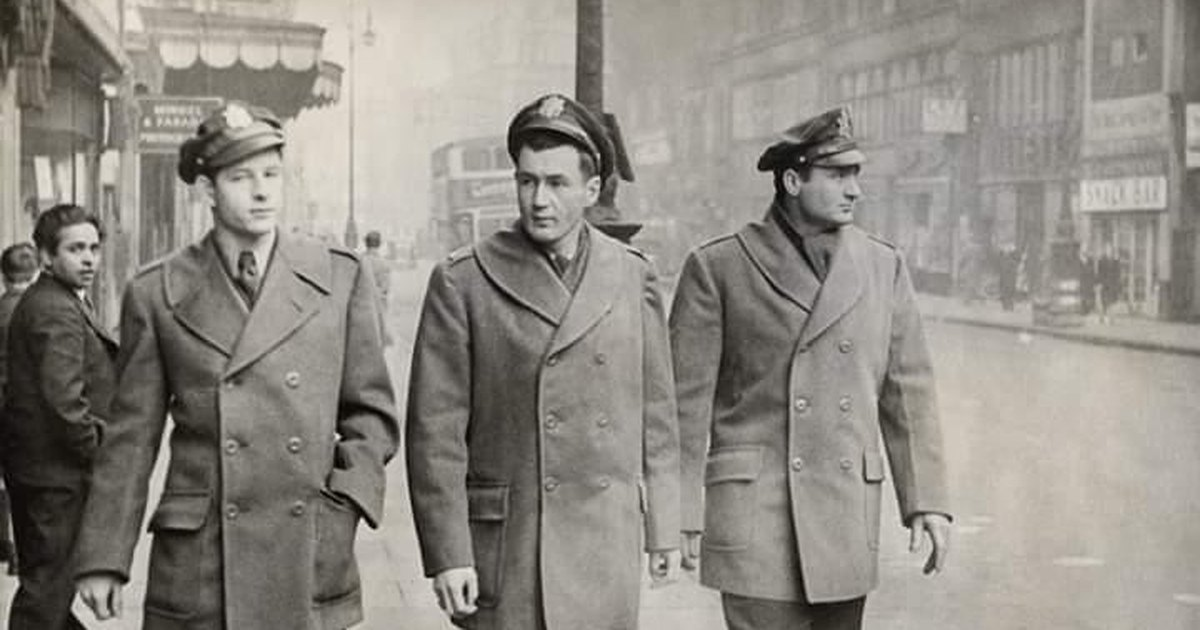
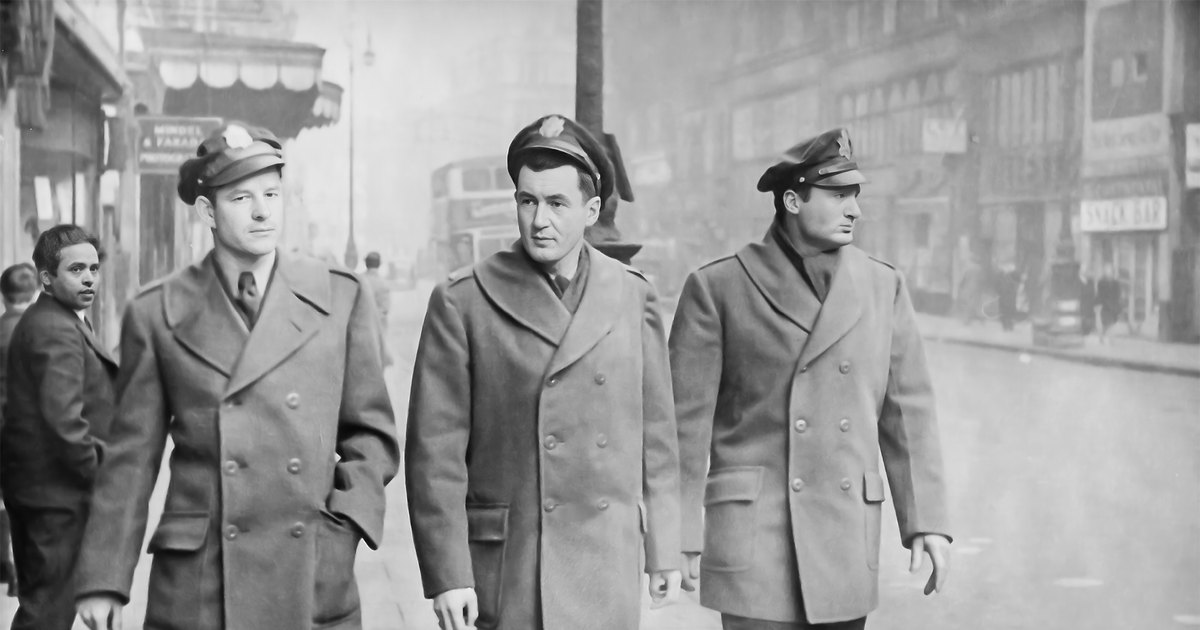
Add four plates and name the men on Oxford Street
The early CAA card, the studio portrait, the cadet with the instructor
on the porch, and Frank and Joyce in 1958 go into the book. The London
pass is the restored print: Frank at left, Barnes in the middle, Probst
at right. The Horham crew sitting is the Kodachrome.

diff --git a/src/data/chapters.ts b/src/data/chapters.ts
@@ -100,6 +100,7 @@ export const chapters: Chapter[] = [
           { type: "p", id: "2.1-p17", text: "The building on the plan is 60 by 70 feet. The Gazette, quoting Sam Calicura Jr. in February 1941, gave the hangar as 65 by 75. The plan is undated, and the difference may be nothing more than the gap between a figure quoted to a reporter and a figure measured afterward, but the two are not the same and this book does not reconcile them." },
           { type: "p", id: "2.1-p18", text: "Sam Calicura Jr. was the field’s co-founder and its vice president. He taught his two younger brothers to fly there. A group plate from the strip shows him fourth from the left, in a suit, no cap. The other men are not named here." },
           { type: "p", id: "2.1-p19", text: "That last sentence is the one to read slowly. Frank Calicura did not go looking for aviation, did not answer a recruiting poster, and did not have a moment of vocation that anyone recorded. His older brother rebuilt an airfield four blocks from the family’s front door and taught him, and taught Dominic, on that strip of fill between the refinery and the water." },
+          { type: "figure", id: "airmanid" },
           { type: "p", id: "2.1-p20", text: "Both of them enlisted as Aviation Cadets in June 1942." },
           { type: "p", id: "2.1-p21", text: "The short snorter dollar bill in the family’s collection carries the signatures of men and women connected to that airport. Charles Beatie’s name is on it." },
           { type: "figure", id: "snorter" },
@@ -254,6 +255,7 @@ export const chapters: Chapter[] = [
           { type: "p", id: "4.3-p3", text: "The course ran roughly nine or ten weeks and about sixty hours, split between dual instruction and solo flying. A cadet’s first solo — the moment an instructor climbed out of the rear cockpit and did not climb back in — was by every surviving account from the period the single most remembered event of primary training, more so than graduation itself." },
           { type: "p", id: "4.3-p4", text: "The certificate marking Frank’s is a cartoon. Woody Woodpecker, not an eagle or a colonel’s signature. The Army let the occasion be what it was: one afternoon, one young man alone in an airplane for the first time, and paperwork that did not pretend to more gravity than the moment actually carried." },
           { type: "figure", id: "woodpecker" },
+          { type: "figure", id: "cadet" },
           { type: "p", id: "4.3-p5", text: "If the aircraft under Ellis Ort’s instruction was a Stearman, as the regional pattern makes likely, it was the same type — a Boeing product, the same basic biplane lineage — that Frank had already flown as a civilian at his brother’s field in Martinez. The Army’s airplane and his brother’s airplane would have differed mainly in paint." },
         ],
       },
@@ -302,6 +304,7 @@ export const chapters: Chapter[] = [
           { type: "p", id: "4.6-p4", text: "Read together, the two documents settle what earlier research had only inferred: commission and instrument qualification landed on the same day, certified from two different headquarters — Turner Field signing off the flying, Maxwell Field signing off the rank. Gold bars and instrument rating arrived in the same week’s mail, the way the advanced twin-engine pipeline was built to work." },
           { type: "p", id: "4.6-p5", text: "The Gazette put it in a paragraph headed Martinez Boy Now Lieut. in Air Corps. Aviation Cadet Frank James Calicura, son of Mr. and Mrs. Sam Calicura, Sr., 515 Mellius street — the paper’s spelling — commissioned a second lieutenant at Turner Field, Albany, Georgia, Colonel John B. Patrick announcing it that day. Patrick is the same name on the instrument certificate. The paper uses the parents’ house, and misspells the street. Frank had lived at 731 since 1938." },
           { type: "figure", id: "commissionclip" },
+          { type: "figure", id: "portrait" },
           { type: "p", id: "4.6-p6", text: "A third document, dated to the same graduation week, rates him for the aeronautical designation itself rather than the commission or the instrument qualification. Personnel Orders Number 15, Headquarters Army Air Forces Eastern Flying Training Command, Maxwell Field, Alabama, 7 April 1944, lists the entire graduating roster of Class 44-D — dozens of names, alphabetically, Calicura's among them — as rated Pilot effective 15 April 1944, Turner Field, Albany, Georgia, under Army Air Forces Regulation 50-7 (family collection). Three separate documents converge on the same date: instrument qualification, officer’s commission, and pilot rating, each issued by a different office, each landing on 15 April 1944." },
           { type: "p", id: "4.6-p7", text: "A fourth item survives from the same week, and it belongs to a different category. Where the commission, the instrument certificate, and the pilot rating are administrative — records the Army kept because it had to — this one is a keepsake. A formal graduation announcement from the Army Air Forces Eastern Flying Training Command announces the graduation of Class 44-D, Turner Field, Albany, Georgia, on Saturday, April 15, 1944, personalized on its inside flap: Frank J. Calicura, Lieutenant, Air Forces, Army of the United States (family collection). Nothing about it was required. It was kept because a graduation is the kind of thing a family wants a card for, even one issued by the Army." },
           { type: "p", id: "4.6-p8", text: "One more object survives from Turner Field, and it is the only thing in this stretch of the record made to be worn. It is a ring: a dark stone in an oval bezel, the lettering around the bezel worn most of the way down to illegible, and on the shoulder an eagle with its wings spread over a shield. Beneath the shield is a banner with one word on it. PILOT." },
@@ -1137,6 +1140,7 @@ export const chapters: Chapter[] = [
         blocks: [
           { type: "p", id: "15.5-p0", text: "Every other connection this book has drawn between the Calicura family and Sabato Rodia runs one way — Rodia coming north, into Martinez, into the family’s own shop and street. One photograph in the collection runs the other direction." },
           { type: "figure", id: "watts" },
+          { type: "figure", id: "joyce1958" },
           { type: "p", id: "15.5-p1", text: "It shows Frank Calicura and his son Samuel standing on the sidewalk outside the Watts Towers themselves, the mosaic walls and looping tower framework filling the frame behind them. Frank stands with his arms folded; Samuel, younger, stands the same way beside him. The family places the stop during a trip south to Disneyland. Samuel, born in 1952, would have been about six that year — consistent with 1958, the working date used here, a year ahead of both the Ernest visit and the VA’s decision on Frank’s claim, though nothing fixes the trip’s date itself independently of family memory; only Samuel’s birth year is separately confirmed." },
           { type: "p", id: "15.5-p2", text: "The towers were a detour on the way to or from a vacation remembered for something else entirely. Nothing in the record says what Frank told his son standing there, or whether he told him anything at all." },
         ],

diff --git a/src/data/photos.ts b/src/data/photos.ts
@@ -45,11 +45,11 @@ export const photos: Record<PhotoId, ArchivePhoto> = {
     title: "The crew of 44-6838",
     date: "1945",
     src: "/images/archive/crew",
-    width: 1500,
-    height: 1189,
-    alt: "Nine airmen posed in two rows under the nose of a B-17 painted Spirit of Martinez",
+    width: 1800,
+    height: 1250,
+    alt: "Nine airmen posed in two rows under the nose of a B-17 painted Spirit of Martinez, Kodachrome, 1945",
     caption:
-      "The crew of 44-6838, Spirit of Martinez, on the hardstand at Horham, 1945. The name is already on the nose — this is the ship after the Army caught up to what the men had decided to call her.",
+      "The crew of 44-6838, Spirit of Martinez, on the hardstand at Horham, 1945. Kodachrome. The name is already on the nose — this is the ship after the Army caught up to what the men had decided to call her.",
     credit: "Family collection",
     kind: "photograph",
     place: {
@@ -134,11 +134,11 @@ export const photos: Record<PhotoId, ArchivePhoto> = {
     title: "Oxford Street",
     date: "1945",
     src: "/images/archive/london",
-    width: 720,
-    height: 447,
-    alt: "Three American officers in greatcoats walking Oxford Street, the Mindel & Faraday shopfront behind them",
+    width: 1800,
+    height: 1119,
+    alt: "Three American officers in greatcoats walking Oxford Street: Frank Calicura at left, John R. Barnes in the middle, Victor G. Probst at right, the Mindel & Faraday shopfront behind them",
     caption:
-      "Oxford Street. The shopfront behind them reads Mindel & Faraday, the photographers at 34–36. A London pass. The mission reports document targets, tonnage, losses, and times. They document nothing about this pavement.",
+      "Oxford Street. Frank Calicura at left, John R. Barnes in the middle, Victor G. Probst at right. The shopfront behind them reads Mindel & Faraday, the photographers at 34–36. A London pass. The mission reports document targets, tonnage, losses, and times. They document nothing about this pavement.",
     credit: "Family collection",
     kind: "photograph",
     place: {
@@ -147,7 +147,7 @@ export const photos: Record<PhotoId, ArchivePhoto> = {
       precision: "address",
       lat: 51.51522,
       lng: -0.14189,
-      line: "The shopfront reads Mindel & Faraday, the photographers at 34–36. A London pass. The mission reports document nothing about this pavement.",
+      line: "Frank Calicura, John R. Barnes, Victor G. Probst. The shopfront reads Mindel & Faraday, 34–36. A London pass.",
     },
   },
   watts: {
@@ -170,6 +170,20 @@ export const photos: Record<PhotoId, ArchivePhoto> = {
       lng: -118.24103,
       line: "Frank Calicura and his son Samuel outside the Watts Towers, about 1958.",
     },
+  },
+  joyce1958: {
+    id: "joyce1958",
+    title: "Frank and Joyce, 1958",
+    date: "1958",
+    src: "/images/archive/joyce1958",
+    width: 1181,
+    height: 1528,
+    alt: "Frank and Joyce Calicura sitting together on a grey sofa, he in a dark suit, she in a blue floral dress, 1958",
+    caption:
+      "1958. Frank and Joyce Calicura. Color. The same year as the stop at Watts.",
+    credit: "Family collection",
+    kind: "photograph",
+    ogImage: "/images/archive/og/joyce1958.jpg",
   },
   gazette: {
     id: "gazette",
@@ -790,6 +804,27 @@ export const photos: Record<PhotoId, ArchivePhoto> = {
     kind: "photograph",
     maxWidth: "xl",
   },
+  airmanid: {
+    id: "airmanid",
+    title: "Airman identification",
+    src: "/images/archive/airmanid",
+    width: 1800,
+    height: 969,
+    alt: "Department of Commerce Civil Aeronautics Administration Form ACA 935 identifying Frank James Calicura of Martinez, with portrait, signature, and right-hand fingerprints",
+    caption:
+      "Form ACA 935. Civil Aeronautics Administration. Frank James Calicura, Martinez, California. Born 4 April 1921. Brown, brown. 146¼ lbs. 5 ft. 9½ in. Certified as an airman. The Army card comes later, and the weight has changed.",
+    credit: "Family collection",
+    kind: "object",
+    maxWidth: "xl",
+    place: {
+      label: "Martinez, California",
+      layer: "hometown",
+      precision: "city",
+      lat: 38.0194,
+      lng: -122.1341,
+      line: "Form ACA 935. Certified as an airman. The Army card comes later.",
+    },
+  },
   stuart: {
     id: "stuart",
     title: "Stuart’s memorandum",
@@ -884,6 +919,20 @@ export const photos: Record<PhotoId, ArchivePhoto> = {
       "Avon Park. Frank Calicura, left-hand seat. Cropped from a cockpit plate with Victor Probst in the other. Garrison cap, leather, the panel between them.",
     credit: "Family collection",
     kind: "photograph",
+  },
+  portrait: {
+    id: "portrait",
+    title: "Lieutenant Calicura",
+    date: "1944",
+    src: "/images/archive/portrait",
+    width: 1288,
+    height: 1800,
+    alt: "Studio portrait of Second Lieutenant Frank J. Calicura in Army Air Forces service dress, pilot wings and a winged-star patch on the shoulder",
+    caption:
+      "Studio portrait. Pilot wings, gold bars, the Air Forces patch. The print does not date itself. The bars are a second lieutenant’s.",
+    credit: "Family collection",
+    kind: "photograph",
+    ogImage: "/images/archive/og/portrait.jpg",
   },
   probst: {
     id: "probst",
@@ -1035,6 +1084,20 @@ export const photos: Record<PhotoId, ArchivePhoto> = {
     credit: "Family collection",
     kind: "object",
     maxWidth: "xl",
+  },
+  cadet: {
+    id: "cadet",
+    title: "Cadet, instructor on the porch",
+    date: "1943",
+    src: "/images/archive/cadet",
+    width: 1302,
+    height: 1800,
+    alt: "Aviation Cadet Frank Calicura standing on grass in a leather flying jacket, a man in a jacket on the barracks porch behind him",
+    caption:
+      "Aviation cadet. Leather jacket, the barracks behind him. An instructor on the porch. The print does not name the field.",
+    credit: "Family collection",
+    kind: "photograph",
+    ogImage: "/images/archive/og/cadet.jpg",
   },
   coat: {
     id: "coat",
@@ -1395,6 +1458,7 @@ export const photoList: ArchivePhoto[] = [
   photos.airfield,
   photos.hangar,
   photos.airportgroup,
+  photos.airmanid,
   photos.tribune1939,
   photos.richard,
   photos.beatie,
@@ -1412,6 +1476,7 @@ export const photoList: ArchivePhoto[] = [
   photos.dillon,
   photos.cockpit,
   photos.calicura,
+  photos.portrait,
   photos.probst,
   photos.naming,
   photos.britishbase,
@@ -1443,6 +1508,7 @@ export const photoList: ArchivePhoto[] = [
   photos.pocket,
   photos.gazette,
   photos.watts,
+  photos.joyce1958,
   photos.hamburg,
   photos.osnabruckclip,
   photos.nuremberg4,
@@ -1456,6 +1522,7 @@ export const photoList: ArchivePhoto[] = [
   photos.promotion,
   photos.merit,
   photos.greenville,
+  photos.cadet,
   photos.woodpecker,
   photos.instrument,
   photos.commissionclip,

diff --git a/src/data/crew.ts b/src/data/crew.ts
@@ -218,6 +218,10 @@ export function adjacentCrew(id: string) {
 /** Plates that are this man's own papers, not a group sitting. */
 const CALICURA_PLATES = new Set<PhotoId>([
   "idcard",
+  "airmanid",
+  "portrait",
+  "cadet",
+  "joyce1958",
   "instrument",
   "merit",
   "promotion",
@@ -242,6 +246,11 @@ const CREW_PLATES = new Set<PhotoId>(["crew", "crew2", "stations", "naming"]);
 export function crewForPhoto(id: PhotoId): CrewMember[] {
   const portraits = crew.filter((m) => m.photo === id);
   if (portraits.length) return portraits;
+  if (id === "london") {
+    return ["calicura", "barnes", "probst"]
+      .map((pid) => crewById(pid))
+      .filter((m): m is CrewMember => Boolean(m));
+  }
   if (CALICURA_PLATES.has(id)) {
     const frank = crewById("calicura");
     return frank ? [frank] : [];

diff --git a/src/data/lostness.test.ts b/src/data/lostness.test.ts
@@ -15,7 +15,15 @@ describe("lostness", () => {
 
   it("identity card and crusher open onto Frank", () => {
     assert.equal(crewForPhoto("idcard")[0]?.id, "calicura");
+    assert.equal(crewForPhoto("airmanid")[0]?.id, "calicura");
     assert.equal(crewForPhoto("crusher")[0]?.id, "calicura");
+  });
+
+  it("the London pass names Frank, Barnes, and Probst", () => {
+    assert.deepEqual(
+      crewForPhoto("london").map((m) => m.id),
+      ["calicura", "barnes", "probst"],
+    );
   });
 
   it("Barnes’s plate opens onto Barnes", () => {

diff --git a/src/data/archive.ts b/src/data/archive.ts
@@ -79,6 +79,11 @@ export const artifacts: {
     photoId: "idcard",
   },
   {
+    title: "CAA airman identification",
+    body: "Form ACA 935. Frank James Calicura, Martinez. 146¼ lbs. 5 ft. 9½ in. Certified as an airman. The Army card comes later.",
+    photoId: "airmanid",
+  },
+  {
     title: "The PILOT ring",
     body: "Dark oval stone, eagle and shield, a banner with one word. The paper from that April is all addressed to somebody. The ring is not addressed to anyone.",
     photoId: "ring",

diff --git a/src/data/types.ts b/src/data/types.ts
@@ -91,7 +91,11 @@ export type PhotoId =
   | "preflight"
   | "dogtags"
   | "flyingcover"
-  | "carpenter";
+  | "carpenter"
+  | "airmanid"
+  | "portrait"
+  | "joyce1958"
+  | "cadet";
 
 export type Block =
   | { type: "p"; text: string; id?: string }
